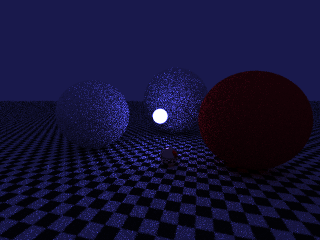
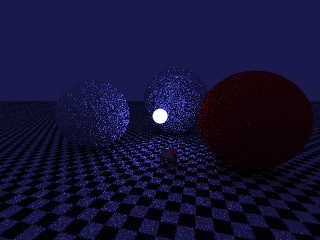
kill double supersample

diff --git a/src/trace.rs b/src/trace.rs
@@ -42,16 +42,9 @@ fn trace_intersection(r: &Ray, intersection: Intersection, depth: u64, scene: &S
 
     let mut cast = 1;
     let mut out = Color::black();
-    
-    let subsamples = 35;
-
-    // Monte-Carlo method: We sample many times and average.
-    for _s in 0..subsamples { 
-        let (c, o) = trace_sample(r, &biased_intersection, depth, scene);
-        cast = cast + c;
-        out = out + o;
-    }
-    out = out * (1./ subsamples as f64);
+    let (c, o) = trace_sample(r, &biased_intersection, depth, scene);
+    cast = cast + c;
+    out = out + o;
 
     return (cast, out)
 }

diff --git a/src/main.rs b/src/main.rs
@@ -63,6 +63,8 @@ fn main() {
     for y in 0..s.height {
         for x in 0..s.width {
             let mut pixel = color::Color::black();
+
+            // Monte-Carlo method: We sample many times and average.
             for sx in 0..s.supersamples {
                 for sy in 0..s.supersamples {
                     let (rays_cast, c) = trace(
